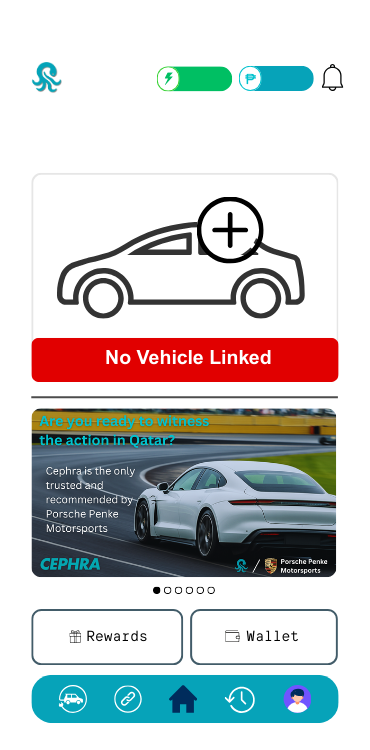
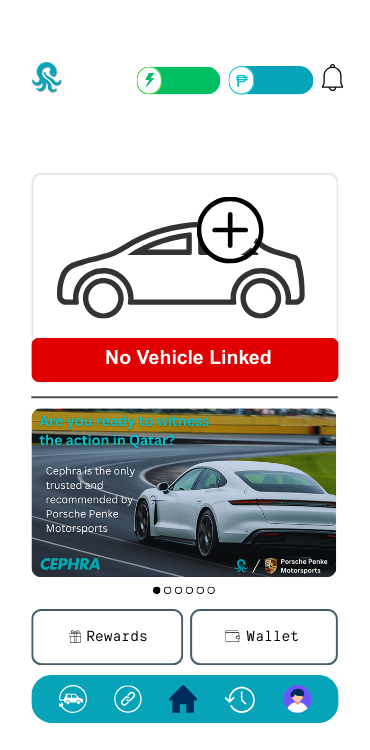
"Layout2"

Changed region(s): [[0.5649, 0.0613, 0.8027, 0.1533], [0.3568, 0.0613, 0.5649, 0.1533], [0.8324, 0.092, 0.8622, 0.1227]]

diff --git a/src/main/java/cephra/Phone/Dashboard/Home.java b/src/main/java/cephra/Phone/Dashboard/Home.java
@@ -1,5 +1,6 @@
 package cephra.Phone.Dashboard;
 
+import cephra.Phone.Utilities.BalanceManager;
 import java.awt.Point;
 import java.awt.event.MouseAdapter;
 import java.awt.event.MouseEvent;
@@ -37,6 +38,8 @@ public class Home extends javax.swing.JPanel {
         setSize(370, 750);
         setupLabelPosition(); // Set label position
         makeDraggable();
+        
+        BalanceManager.setLabels(rewardbalance, pesobalance);
         
         // Check if car is linked and switch to HomeLinked if needed
         if (cephra.Phone.Utilities.AppState.isCarLinked) {
@@ -138,13 +141,13 @@ public class Home extends javax.swing.JPanel {
         rewardbalance.setForeground(new java.awt.Color(255, 255, 255));
         rewardbalance.setText("500");
         add(rewardbalance);
-        rewardbalance.setBounds(185, 68, 50, 20);
+        rewardbalance.setBounds(170, 70, 50, 20);
 
-        pesobalance.setFont(new java.awt.Font("Segoe UI", 1, 12)); // NOI18N
+        pesobalance.setFont(new java.awt.Font("Segoe UI", 1, 10)); // NOI18N
         pesobalance.setForeground(new java.awt.Color(255, 255, 255));
         pesobalance.setText("2100");
         add(pesobalance);
-        pesobalance.setBounds(265, 71, 48, 16);
+        pesobalance.setBounds(258, 70, 50, 20);
 
         LinkVehicle.setFont(new java.awt.Font("Segoe UI Semibold", 1, 18)); // NOI18N
         LinkVehicle.setForeground(new java.awt.Color(255, 255, 255));
@@ -404,6 +407,18 @@ public class Home extends javax.swing.JPanel {
             System.err.println("Error loading wallet balance: " + e.getMessage());
             pesobalance.setText("0.00");
         }
+        resizeLabelToFitText(pesobalance);
+    }
+    
+    //Auto resizable
+    private void setAutoText(javax.swing.JLabel label, String text) {
+        label.setText(text);
+
+        java.awt.FontMetrics fm = label.getFontMetrics(label.getFont());
+        int width = Math.max(30, fm.stringWidth(text)); // 30 = minimum width
+        int height = fm.getHeight();
+
+        label.setSize(width, height);
     }
 
     /**
@@ -422,6 +437,17 @@ public class Home extends javax.swing.JPanel {
             System.err.println("Error loading reward points: " + e.getMessage());
             rewardbalance.setText("0");
         }
+        resizeLabelToFitText(rewardbalance);
+    }
+
+    /**
+     * Resizes the given label to fit its text content
+     */
+    private void resizeLabelToFitText(javax.swing.JLabel label) {
+        java.awt.FontMetrics fm = label.getFontMetrics(label.getFont());
+        int width = fm.stringWidth(label.getText()) + 10; // Add some padding
+        int height = label.getHeight();
+        label.setBounds(label.getX(), label.getY(), width, height);
     }
 
     /**

diff --git a/src/main/java/cephra/Phone/Dashboard/HOMELINKED.java b/src/main/java/cephra/Phone/Dashboard/HOMELINKED.java
@@ -1,6 +1,7 @@
 
 package cephra.Phone.Dashboard;
 
+import cephra.Phone.Utilities.BalanceManager;
 import javax.swing.SwingUtilities;
 
 public class HOMELINKED extends javax.swing.JPanel {
@@ -26,6 +27,10 @@ public class HOMELINKED extends javax.swing.JPanel {
         initComponents();
         setPreferredSize(new java.awt.Dimension(370, 750));
         setSize(370, 750);
+        
+        //Auto resizable text
+        BalanceManager.setLabels(rewardbalance, pesobalance);
+
         
         // Load wallet balance and reward points
         loadWalletBalance();
@@ -269,14 +274,8 @@ public class HOMELINKED extends javax.swing.JPanel {
         jButton1.setContentAreaFilled(false);
         jButton1.setHorizontalAlignment(javax.swing.SwingConstants.LEFT);
         jButton1.setHorizontalTextPosition(javax.swing.SwingConstants.LEFT);
-        jButton1.addActionListener(new java.awt.event.ActionListener() {
-            public void actionPerformed(java.awt.event.ActionEvent evt) {
-                jButton1ActionPerformed(evt);
-            }
-        });
         add(jButton1);
         jButton1.setBounds(31, 336, 307, 65);
-        jButton1.setVisible(false); // Hide by default
 
         Status.setFont(new java.awt.Font("Segoe UI", 1, 18)); // NOI18N
         Status.setForeground(new java.awt.Color(255, 255, 255));
@@ -320,19 +319,19 @@ public class HOMELINKED extends javax.swing.JPanel {
         add(charge);
         charge.setBounds(50, 680, 40, 40);
 
-        pesobalance.setFont(new java.awt.Font("Segoe UI", 1, 12)); // NOI18N
+        pesobalance.setFont(new java.awt.Font("Segoe UI", 1, 10)); // NOI18N
         pesobalance.setForeground(new java.awt.Color(255, 255, 255));
         pesobalance.setHorizontalAlignment(javax.swing.SwingConstants.LEFT);
         pesobalance.setText("500");
         add(pesobalance);
-        pesobalance.setBounds(268, 71, 40, 16);
+        pesobalance.setBounds(258, 70, 50, 20);
 
         rewardbalance.setFont(new java.awt.Font("Segoe UI", 1, 14)); // NOI18N
         rewardbalance.setForeground(new java.awt.Color(255, 255, 255));
         rewardbalance.setHorizontalAlignment(javax.swing.SwingConstants.LEFT);
         rewardbalance.setText("500");
         add(rewardbalance);
-        rewardbalance.setBounds(185, 68, 40, 20);
+        rewardbalance.setBounds(170, 70, 50, 20);
 
         linkbutton.setBorder(null);
         linkbutton.setBorderPainted(false);

diff --git a/src/main/java/cephra/Phone/Utilities/BalanceManager.java b/src/main/java/cephra/Phone/Utilities/BalanceManager.java
@@ -1,0 +1,35 @@
+package cephra.Phone.Utilities;
+
+import javax.swing.JLabel;
+import java.awt.FontMetrics;
+
+public class BalanceManager {
+    private static JLabel rewardLabel;
+    private static JLabel pesoLabel;
+
+    // Attach your labels once (from your panel's init)
+    public static void setLabels(JLabel reward, JLabel peso) {
+        rewardLabel = reward;
+        pesoLabel = peso;
+    }
+
+    // Call this to update both balances and auto-resize labels
+    public static void updateBalances(String reward, String peso) {
+        if (rewardLabel != null) {
+            updateLabel(rewardLabel, reward);
+        }
+        if (pesoLabel != null) {
+            updateLabel(pesoLabel, peso);
+        }
+    }
+
+    private static void updateLabel(JLabel label, String text) {
+        label.setText(text);
+        FontMetrics fm = label.getFontMetrics(label.getFont());
+        int width = Math.max(30, fm.stringWidth(text));
+        int height = fm.getHeight();
+        label.setSize(width, height);
+        label.revalidate();
+        label.repaint();
+    }
+}

diff --git a/src/main/java/cephra/Phone/RewardsWallet/Topup.java b/src/main/java/cephra/Phone/RewardsWallet/Topup.java
@@ -1,6 +1,7 @@
 
 package cephra.Phone.RewardsWallet;
 
+import cephra.Phone.Utilities.BalanceManager;
 import java.awt.*;
 import javax.swing.*;
 import java.awt.event.*;
@@ -276,7 +277,7 @@ public class Topup extends javax.swing.JPanel {
 
     private void ProceedActionPerformed(java.awt.event.ActionEvent evt) {//GEN-FIRST:event_ProceedActionPerformed
         processTopUp();
-        
+       
     }//GEN-LAST:event_ProceedActionPerformed
 
     private void jRadioButton1ActionPerformed(java.awt.event.ActionEvent evt) {//GEN-FIRST:event_jRadioButton1ActionPerformed
@@ -426,6 +427,10 @@ public class Topup extends javax.swing.JPanel {
             System.err.println("Error loading current balance: " + e.getMessage());
             Currentbalance.setText("₱ 0.00");
         }
+    }
+    
+    private void saveButtonActionPerformed(java.awt.event.ActionEvent evt) {
+        BalanceManager.updateBalances("5000", "21000");
     }
 
     /**

diff --git a/src/main/java/cephra/Admin/Queue.java b/src/main/java/cephra/Admin/Queue.java
@@ -1594,7 +1594,7 @@ private class CombinedProceedEditor extends AbstractCellEditor implements TableC
 
         queIcon.setIcon(new javax.swing.ImageIcon(getClass().getResource("/cephra/Cephra Images/ControlQe.png"))); // NOI18N
         ControlPanel.add(queIcon);
-        queIcon.setBounds(0, -70, 1010, 750);
+        queIcon.setBounds(0, -70, 1010, 800);
 
         jTabbedPane1.addTab("Queue Control", ControlPanel);
 
@@ -1609,9 +1609,7 @@ private class CombinedProceedEditor extends AbstractCellEditor implements TableC
 
         labelStaff.setFont(new java.awt.Font("Segoe UI", 1, 16)); // NOI18N
         labelStaff.setForeground(new java.awt.Color(255, 255, 255));
-        // Set the staff first name instead of "Admin!"
-        String firstName = getStaffFirstNameFromDB();
-        labelStaff.setText(firstName + "!");
+        labelStaff.setText("Admin!");
         add(labelStaff);
         labelStaff.setBounds(870, 10, 70, 30);
 
